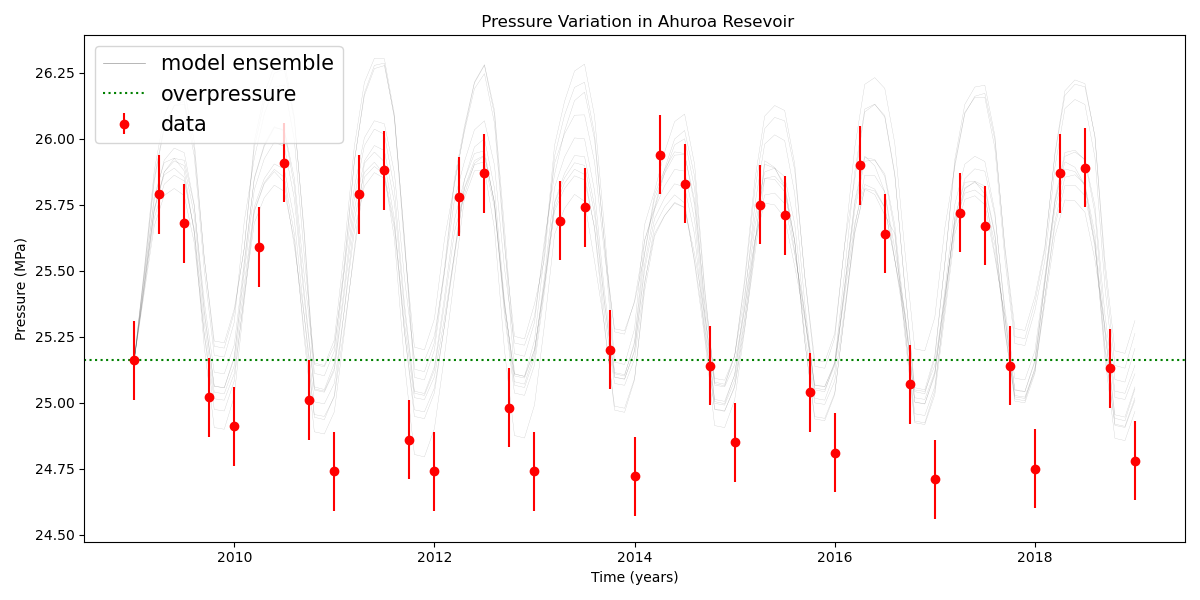
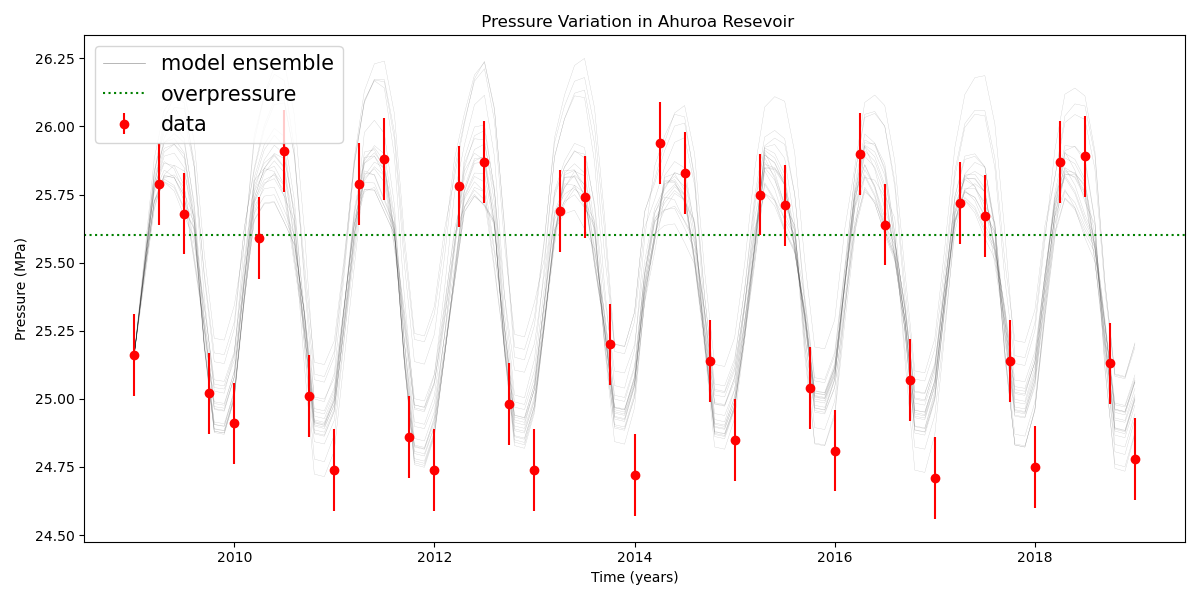
Added docstrings and comments

diff --git a/Model_uncertainty.py b/Model_uncertainty.py
@@ -128,7 +128,7 @@ def model_ensemble(samples):
 
     # Extracting historical data
     tp, po = np.genfromtxt('gs_pres.txt', delimiter=',', skip_header=1).T
-    ax.axhline(25.16, color='g', linestyle=':', label='overpressure')
+    ax.axhline(25.6, color='g', linestyle=':', label='overpressure')
 
     # Plotting data as error bars
     v = 0.15
@@ -179,7 +179,7 @@ def model_ensemble_with_forecasts(samples):
     ax1.plot([], [], 'm-', lw=0.5, alpha=0.4, label='scale: 1.2')
     ax1.plot([], [], 'y-', lw=0.5, alpha=0.4, label='scale: 1.5')
     ax1.axvline(2019, color='b', linestyle=':', label='calibration/forecast')
-    ax1.axhline(25.16, color='g', linestyle=':', label='overpressure')
+    ax1.axhline(25.6, color='g', linestyle=':', label='overpressure')
 
     v = 0.15
     ax1.errorbar(tp, po, yerr=v, fmt='ro', markersize=2, label='data')
@@ -207,7 +207,7 @@ def leakage_forecasting(samples):
     '''
 
     fig2, ax2 = plt.subplots(1, 1, figsize=(12, 6))
-    overpressure = 25.16
+    overpressure = 25.6
 
     cumulLeak1 = list()
     count = 0
